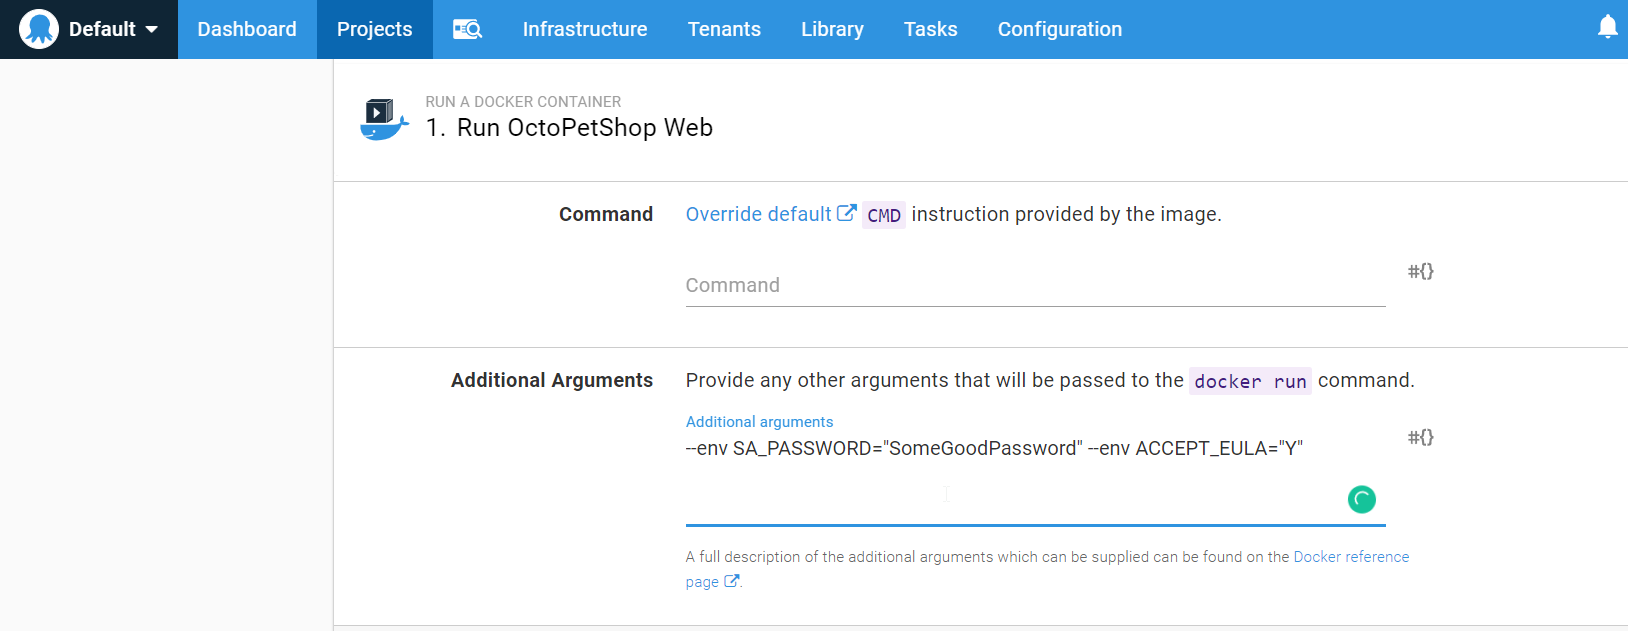
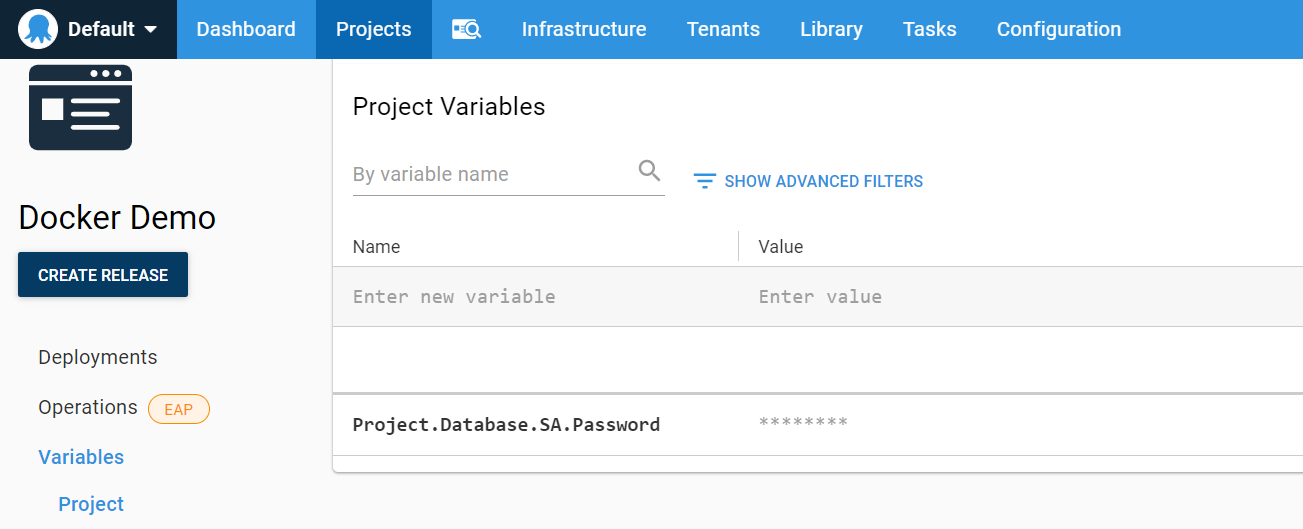
Implement suggested edits.

diff --git a/blog/2019-11/docker-in-ci-cd-pipelines/index.md b/blog/2019-11/docker-in-ci-cd-pipelines/index.md
@@ -18,21 +18,35 @@ In a previous post, I showed you how to create Docker container images for the O
 - Creating an Octopus Deploy project.
 - Deploying our containers to a machine running Docker.
 
+!toc
+
 ## Build server
 
-All of the major build servers (Azure DevOps, TeamCity, Jenkins, and Bamboo) can build Docker images either with a built-in step or a downloadable plug-in.  For this demonstration, I use TeamCity as most of my experience is with Azure DevOps and I wanted to expand my horizons.  One thing I found with both Azure DevOps and TeamCity (and I imagine this is true for other build servers as well) is that even though they had built-in steps to perform Docker builds, the build agents still need Docker installed to work.  It makes sense, but it seemed counter-intuitive since it was an available step you could choose.
+Continuous Integration is done on the build server.  The Continuous part is usually associated with some sort of event that triggers a build such as a specific time of day or a developer check-in.  For our build server, we'll be performing the following tasks:
 
-Rather than create a new VM, install and configure an OS, install the build agent, and finally install Docker, I chose a much nerdier path.  JetBrains, maker of TeamCity (amongst other products), provides a [Docker image for their build agent](https://hub.docker.com/r/jetbrains/teamcity-agent/). Not only do they have a build agent image, this image can also run Docker to do Docker builds (I chose option two under Running Builds Which Require Docker in the linked document above). My first attempt at running this ran into an issue where the agent container couldn’t resolve local DNS entries, but this article: [Fix Docker’s networking DNS config](https://development.robinwinslow.uk/2016/06/23/fix-docker-networking-dns/), showed me a neat trick to fix that problem.
+- Creating a project
+- Creating a build definition
+- Defining build steps
+
+## Adding the Build Docker capability to the build agent
+
+All of the major build servers (Azure DevOps, TeamCity, Jenkins, and Bamboo) can build Docker images either with a built-in step or a downloadable plug-in.  For this demonstration, I used TeamCity as most of my experience is with Azure DevOps and I wanted to expand my horizons.  One thing I found with both Azure DevOps and TeamCity (and I imagine this is true for other build servers as well) is that even though they had built-in steps to perform Docker builds, the build agents still need Docker installed to work.  It makes sense, but it seemed counter-intuitive since it was an available step you could choose.
+
+Rather than create a new VM, install and configure an OS, install the build agent, and finally install Docker, I chose a much nerdier path.  JetBrains, maker of TeamCity (amongst other products), provides a [Docker image for their build agent](https://hub.docker.com/r/jetbrains/teamcity-agent/). Not only do they have a build agent image, this image can also run Docker to do Docker builds (I chose option two under Running Builds Which Require Docker in the linked document above). 
+
+:::hint
+My first attempt at running this ran into an issue where the agent container couldn’t resolve local DNS entries, but this article: [Fix Docker’s networking DNS config](https://development.robinwinslow.uk/2016/06/23/fix-docker-networking-dns/), showed me a neat trick to fix that problem.
 
 With the DNS issue resolved, the container started up and registered itself to my TeamCity server under the Unauthorized category of agents:
 
 ![](teamcity-unauthorized-agent.png)
+:::
 
 Clicking the **Authorize** button finalized the connection and the agent was available to perform builds.
 
 ## The Docker project
 
-Using my local instance of Azure DevOps as my source control repository for the OctoPetShop project, I created a new project within TeamCity and connected my Azure DevOps repo to it.  This post assumes you already know how to create a project within TeamCity and focuses on the build and deploy process.
+Using my local instance of Azure DevOps as my source control repository for the OctoPetShop project, I created a new project within TeamCity and connected my Azure DevOps repo to it.  This post assumes you already know how to [create a project](https://www.jetbrains.com/help/teamcity/creating-and-editing-projects.html) within TeamCity and focuses on the build and deploy process.
 
 ### Adding a connection to Docker Hub
 
@@ -161,7 +175,11 @@ The form for a Docker container step is rather long, so the screen shots are bro
 
 ![](octopus-project-step-docker1.png)
 
-Choose our Docker Hub external feed and choose the `microsoft/mssql-server-linux` image (tip: type `mssql` in the search box to find the image):
+Choose our Docker Hub external feed and choose the `microsoft/mssql-server-linux` image 
+
+:::hint
+Type `mssql` in the search box to find the image):
+:::
 
 ![](octopus-project-step-docker2.png)
 
@@ -173,9 +191,10 @@ To make our database server accessible, we need to add a port mapping.  Specify 
 
 ![](octopus-project-step-docker4.png)
 
-Scroll down to **Additional Arguments**.  This image needs a couple of environment variables passed to it: `SA_PASSWORD` and `ACCEPT_EULA`:
+Scroll down to **Variables** and add some Explicit Variable Mapping.  This image needs a couple of environment variables passed to it: `SA_PASSWORD` and `ACCEPT_EULA`.  Create a Project Variable of type Sensitive for the SA_PASSWORD
 
 ![](octopus-project-step-docker5.png)
+![](octopus-project-step-docker6.png)
 
 And that’s it for this container. Click **SAVE** to commit the step to the process.
 
@@ -184,26 +203,35 @@ Here are the details for the remaining containers:
 #### OctoPetShop Web
 - Docker Image: `octopussamples/octopetshop-web`
 - Network type: `Host`
-- Additional Arguments: `--env ProductServiceBaseUrl=http://localhost:5011/ --env ShoppingCartServiceBaseUrl=http://localhost:5012`
+- Explicit Variable Mapping:
+    - ProductServiceBaseUrl = http://localhost:5011/ 
+    - ShoppingCartServiceBaseUrl = http://localhost:5012
 
 #### OctoPetShop product service
 - Docker Image: `octopussamples/octopetshop-productservice`
 - Network Type: `Bridge`
 - Port Mapping: `5011:5011`
-- Additional Arguments: `--env OPSConnectionString="Data Source=#{Octopus.Machine.Hostname};Initial Catalog=OctoPetShop; User ID=sa; Password=SomeGoodPassword"`
+- Explicit Variable Mapping:
+    - OPSConnectionString = "Data Source=#{Octopus.Machine.Hostname}; Initial Catalog=OctoPetShop; User ID=sa; Password=#{Project.Database.SA.Password}
 
 #### OctoPetShop shopping cart service
 - Docker Image: `octopussamples/octopetshop-shoppingcartservice`
 - Network Type: `Bridge`
 - Port Mapping: `5012:5012`
-- Additional Arguments: `--env OPSConnectionString="Data Source=#{Octopus.Machine.Hostname};Initial Catalog=OctoPetShop; User ID=sa; Password=SomeGoodPassword"`
+- Explicit Variable Mapping:
+    - OPSConnectionString =    "Data Source=#{Octopus.Machine.Hostname}; Initial Catalog=OctoPetShop; User ID=sa; Password=#{Project.Database.SA.Password}
 
 #### OctoPetShop database
 - Docker Image: `octopussamples/octopetshop-database`
 - Network Type: `Host`
-- Additional Arguments: `--env DbUpConnectionString="Data Source=localhost;Initial Catalog=OctoPetShop; User ID=sa; Password=SomeGoodPassword"`
+- Explicit Variable Mapping:
+    - DbUpConnectionString = "Data Source=#{Octopus.Machine.Hostname}; Initial Catalog=OctoPetShop; User ID=sa; Password=#{Project.Database.SA.Password}
 
 With all of our steps defined, we can create a release and deploy it:
+
+:::hint
+For information on how to set up a Tentacle for Linux, see our [documentation](https://octopus.com/docs/infrastructure/deployment-targets/linux/tentacle) page.
+:::
 
 ![](octopus-project-release-success.png)
 

diff --git a/blog/2019-11/kubernetes-in-ci-cd-pipeline/index.md b/blog/2019-11/kubernetes-in-ci-cd-pipeline/index.md
@@ -1,0 +1,40 @@
+---
+title: "Beyond Hello World: Kubernetes in a CI/CD pipeline"
+description: Demonstrating how to use Kubernetes in a CI/CD pipeline
+author: shawn.sesna@octopus.com
+visibility: private
+bannerImage:
+metaImage:
+published: 2020-10-23
+tags:
+ - Docker
+ - Kubernetes
+---
+
+Welcome to another exciting edition of Beyond Hello World!  In this post, I will walk you through using Kubernetes in a Continuous Integration (CI)/Continuous Delivery (CD) pipeline!
+
+## CI with Kubernetes
+Kubernetes is a container orchestration technology, so there isn't anything that we need to build.  For this article, we'll be re-using the Docker images that we built in my previous post, [Beyond Hello World: Docker containers in a CI/CD pipeline](URL).  Don't worry if you haven't read that article, the images built in that post are available on Docker Hub so there's no need to go back and build them.
+
+As explained in my post, [Beyond Hello World: Kubernetes for the uninitiated](URL), Kubernetes uses YAML to set up the different pods in a Kubernetes cluster.  While these aren't compiled, they should be stored within source control.  With your YAML files within source control, we can create builds for them that simply package them as a NuGet package, then push them to Octopus Deploy.  In an effort to learn more build technologies, I've chosen to create builds within Bamboo.
+
+## Setting up Bamboo
+For this article, I decided to step outside my comfort zone and connect my Bamboo instance to GitHub instead of my local Azure DevOps server.  Of course I ran into issues immediately since my organization requires two-factor authentication :)  Thankfully, Atlassian (makers of Bamboo) already had [documentation](https://confluence.atlassian.com/bamkb/two-factor-authentication-2fa-with-github-in-bamboo-871999141.html) on how to over come this.
+
+After creating a Personal Access Token for my GitHub account, I was able to connect my Bamboo project to the remote repo
+
+![](bamboo-repo.png)
+
+Next up was to install the Octopus Deploy plugin.  To do this, we navigate to Manage Apps under the Administration menu
+
+![](bamboo-manage-apps-menu.png)
+
+From here, let's find the Octopus Deploy plugin, first click on Find New Apps
+
+![](bamboo-find-new-apps.png)
+
+Search for Octopus and click Install
+
+![](bamboo-install-octopus.png)
+
+### Create our build
